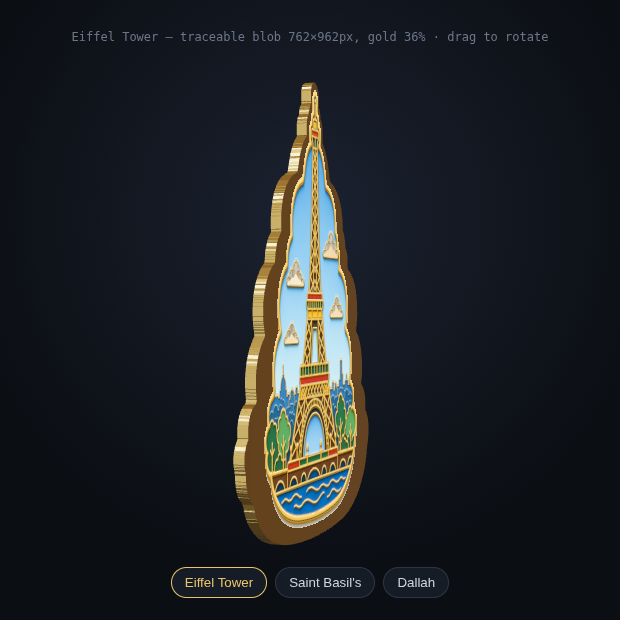
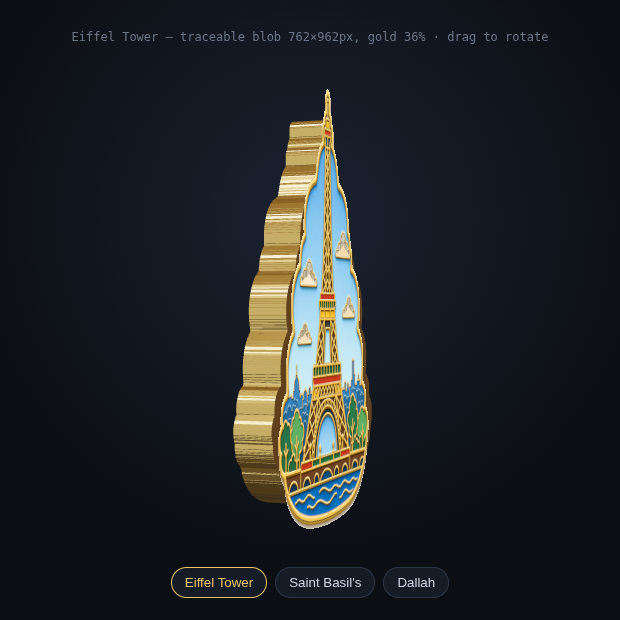
Match the front view to the flat pin: unlit face, tight outline, body hidden behind it

Changed region(s): [[0.3677, 0.1226, 0.6129, 0.8887]]

diff --git a/dist/medallion.js b/dist/medallion.js
@@ -76,7 +76,7 @@ export function createMedallion(analysis, options = {}) {
     if (silhouette) {
         const contour = traceContour(mask, width, imgH);
         const span = Math.max(bounds.maxX - bounds.minX, bounds.maxY - bounds.minY) || 1;
-        const epsilon = Math.max(1.2, span / 320);
+        const epsilon = Math.max(0.35, span / 2400);
         const points = contourToPoints(simplify(contour, epsilon), bounds, size);
         traced = points.length;
         shape = points.length >= 3
@@ -89,10 +89,9 @@ export function createMedallion(analysis, options = {}) {
     // --- body ---
     const bodyGeometry = new THREE.ExtrudeGeometry(shape, {
         depth: thickness,
-        bevelEnabled: true,
-        bevelThickness: bevel * 1.4,
-        bevelSize: bevel,
-        bevelSegments: 3,
+        // No bevel: a bevel offsets the silhouette OUTWARD, so the gold body paints a
+        // ring around the artwork that the flat pin does not have.
+        bevelEnabled: false,
         curveSegments: 8,
         steps: 1,
     });
@@ -101,6 +100,9 @@ export function createMedallion(analysis, options = {}) {
     const offsetX = -(box.min.x + box.max.x) / 2;
     const offsetY = -(box.min.y + box.max.y) / 2;
     bodyGeometry.translate(offsetX, offsetY, -(box.min.z + box.max.z) / 2);
+    // Pull the body inside the artwork: the traced outline is an approximation,
+    // so an exactly-matching body still peeks around the face as a gold rim.
+    bodyGeometry.scale(0.82, 0.82, 1);
     const halfDepth = (box.max.z - box.min.z) / 2;
     const bodyMaterial = new THREE.MeshPhysicalMaterial({
         color: goldColor,
@@ -138,22 +140,12 @@ export function createMedallion(analysis, options = {}) {
     const map = colorTexture(face, width, imgH);
     const normalMap = normalTexture(heightMap, width, imgH, relief);
     const orm = ormTexture(roughness, metalness, width, imgH);
-    const faceMaterial = new THREE.MeshPhysicalMaterial({
-        map,
-        normalMap,
-        normalScale: new THREE.Vector2(1, 1),
-        roughnessMap: orm,
-        metalnessMap: orm,
-        metalness: 1,
-        roughness: 1,
-        envMap,
-        envMapIntensity: 1.1,
-        clearcoat: 0.15,
-        clearcoatRoughness: 0.5,
-        transparent: false,
-    });
+    // The artwork is finished 2D colour. Lighting it washes the enamel out and
+    // clips highlights to white, so the face is drawn unlit and simply discards the
+    // transparent background. The gold body behind supplies the metal.
+    const faceMaterial = new THREE.MeshBasicMaterial({ map, alphaTest: 0.5, toneMapped: false });
     const faceMesh = new THREE.Mesh(faceGeometry, faceMaterial);
-    faceMesh.position.z = 0.0005; // sits a hair proud of the cap
+    faceMesh.position.z = 0.0005;
     const group = new THREE.Group();
     group.add(body, faceMesh);
     return {

diff --git a/src/medallion.ts b/src/medallion.ts
@@ -117,7 +117,7 @@ export function createMedallion(analysis: PinAnalysis, options: MedallionOptions
   if (silhouette) {
     const contour = traceContour(mask, width, imgH);
     const span = Math.max(bounds.maxX - bounds.minX, bounds.maxY - bounds.minY) || 1;
-    const epsilon = Math.max(1.2, span / 320);
+    const epsilon = Math.max(0.35, span / 2400);
     const points = contourToPoints(simplify(contour, epsilon), bounds, size);
     traced = points.length;
     shape = points.length >= 3
@@ -130,10 +130,9 @@ export function createMedallion(analysis: PinAnalysis, options: MedallionOptions
   // --- body ---
   const bodyGeometry = new THREE.ExtrudeGeometry(shape, {
     depth: thickness,
-    bevelEnabled: true,
-    bevelThickness: bevel * 1.4,
-    bevelSize: bevel,
-    bevelSegments: 3,
+    // No bevel: a bevel offsets the silhouette OUTWARD, so the gold body paints a
+    // ring around the artwork that the flat pin does not have.
+    bevelEnabled: false,
     curveSegments: 8,
     steps: 1,
   });
@@ -142,6 +141,9 @@ export function createMedallion(analysis: PinAnalysis, options: MedallionOptions
   const offsetX = -(box.min.x + box.max.x) / 2;
   const offsetY = -(box.min.y + box.max.y) / 2;
   bodyGeometry.translate(offsetX, offsetY, -(box.min.z + box.max.z) / 2);
+  // Pull the body inside the artwork: the traced outline is an approximation,
+  // so an exactly-matching body still peeks around the face as a gold rim.
+  bodyGeometry.scale(0.82, 0.82, 1);
   const halfDepth = (box.max.z - box.min.z) / 2;
 
   const bodyMaterial = new THREE.MeshPhysicalMaterial({
@@ -185,23 +187,13 @@ export function createMedallion(analysis: PinAnalysis, options: MedallionOptions
   const normalMap = normalTexture(heightMap, width, imgH, relief);
   const orm = ormTexture(roughness, metalness, width, imgH);
 
-  const faceMaterial = new THREE.MeshPhysicalMaterial({
-    map,
-    normalMap,
-    normalScale: new THREE.Vector2(1, 1),
-    roughnessMap: orm,
-    metalnessMap: orm,
-    metalness: 1,
-    roughness: 1,
-    envMap,
-    envMapIntensity: 1.1,
-    clearcoat: 0.15,
-    clearcoatRoughness: 0.5,
-    transparent: false,
-  });
+  // The artwork is finished 2D colour. Lighting it washes the enamel out and
+  // clips highlights to white, so the face is drawn unlit and simply discards the
+  // transparent background. The gold body behind supplies the metal.
+  const faceMaterial = new THREE.MeshBasicMaterial({ map, alphaTest: 0.5, toneMapped: false });
 
   const faceMesh = new THREE.Mesh(faceGeometry, faceMaterial);
-  faceMesh.position.z = 0.0005; // sits a hair proud of the cap
+  faceMesh.position.z = 0.0005;
 
   const group = new THREE.Group();
   group.add(body, faceMesh);
